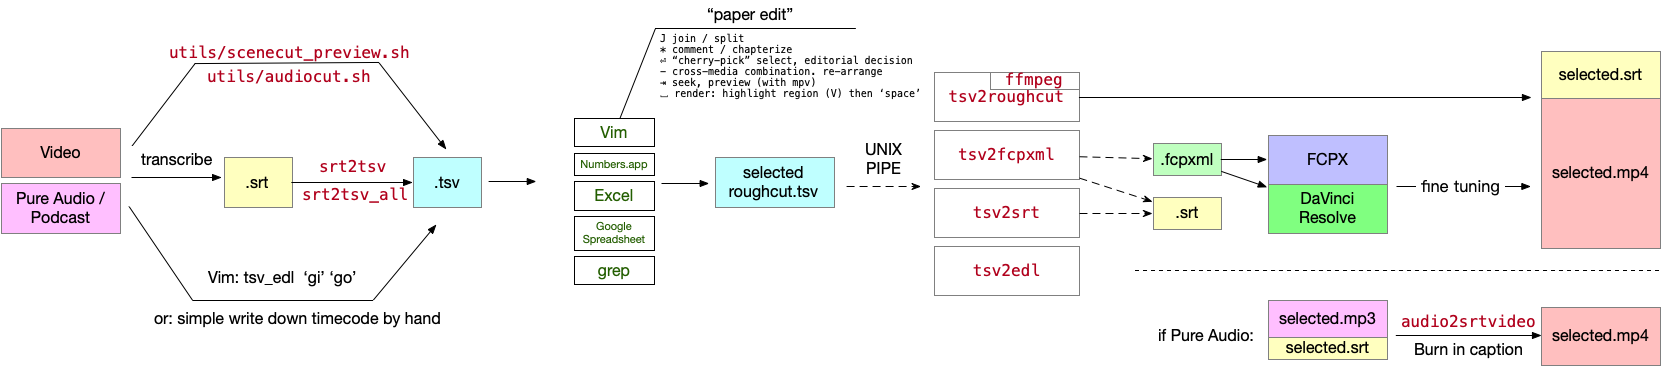
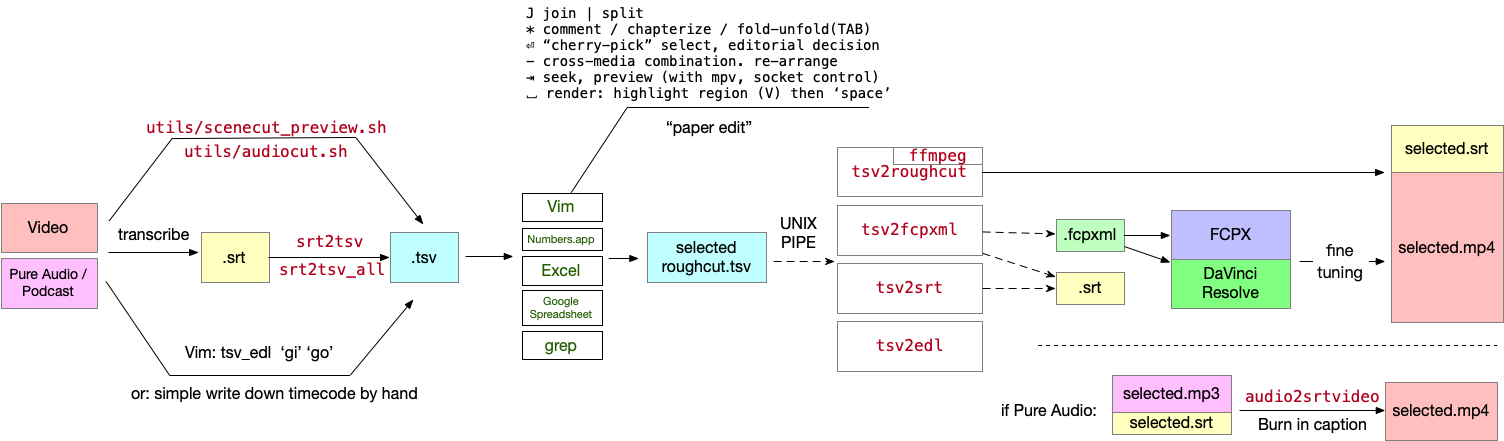
Fri Aug 12 10:40:30 CST 2022

diff --git a/README.md b/README.md
@@ -123,6 +123,7 @@ Press `g9` will:
 
 ## Overview
 
+<details markdown="1"><summary>Click here to see full ASCII diagram</summary>
 ```
 media -- [scenecut_preview]  detect scene cut and slice into tsv
          [    audiocut    ]  detect scene cut by audio silence
@@ -157,6 +158,8 @@ media -- [scenecut_preview]  detect scene cut and slice into tsv
 							               \
 							                \---> Production
 ```
+
+</details>
 
 ![screenshot](screenshots/a.png)
 ![screenshot](screenshots/c.jpg)
